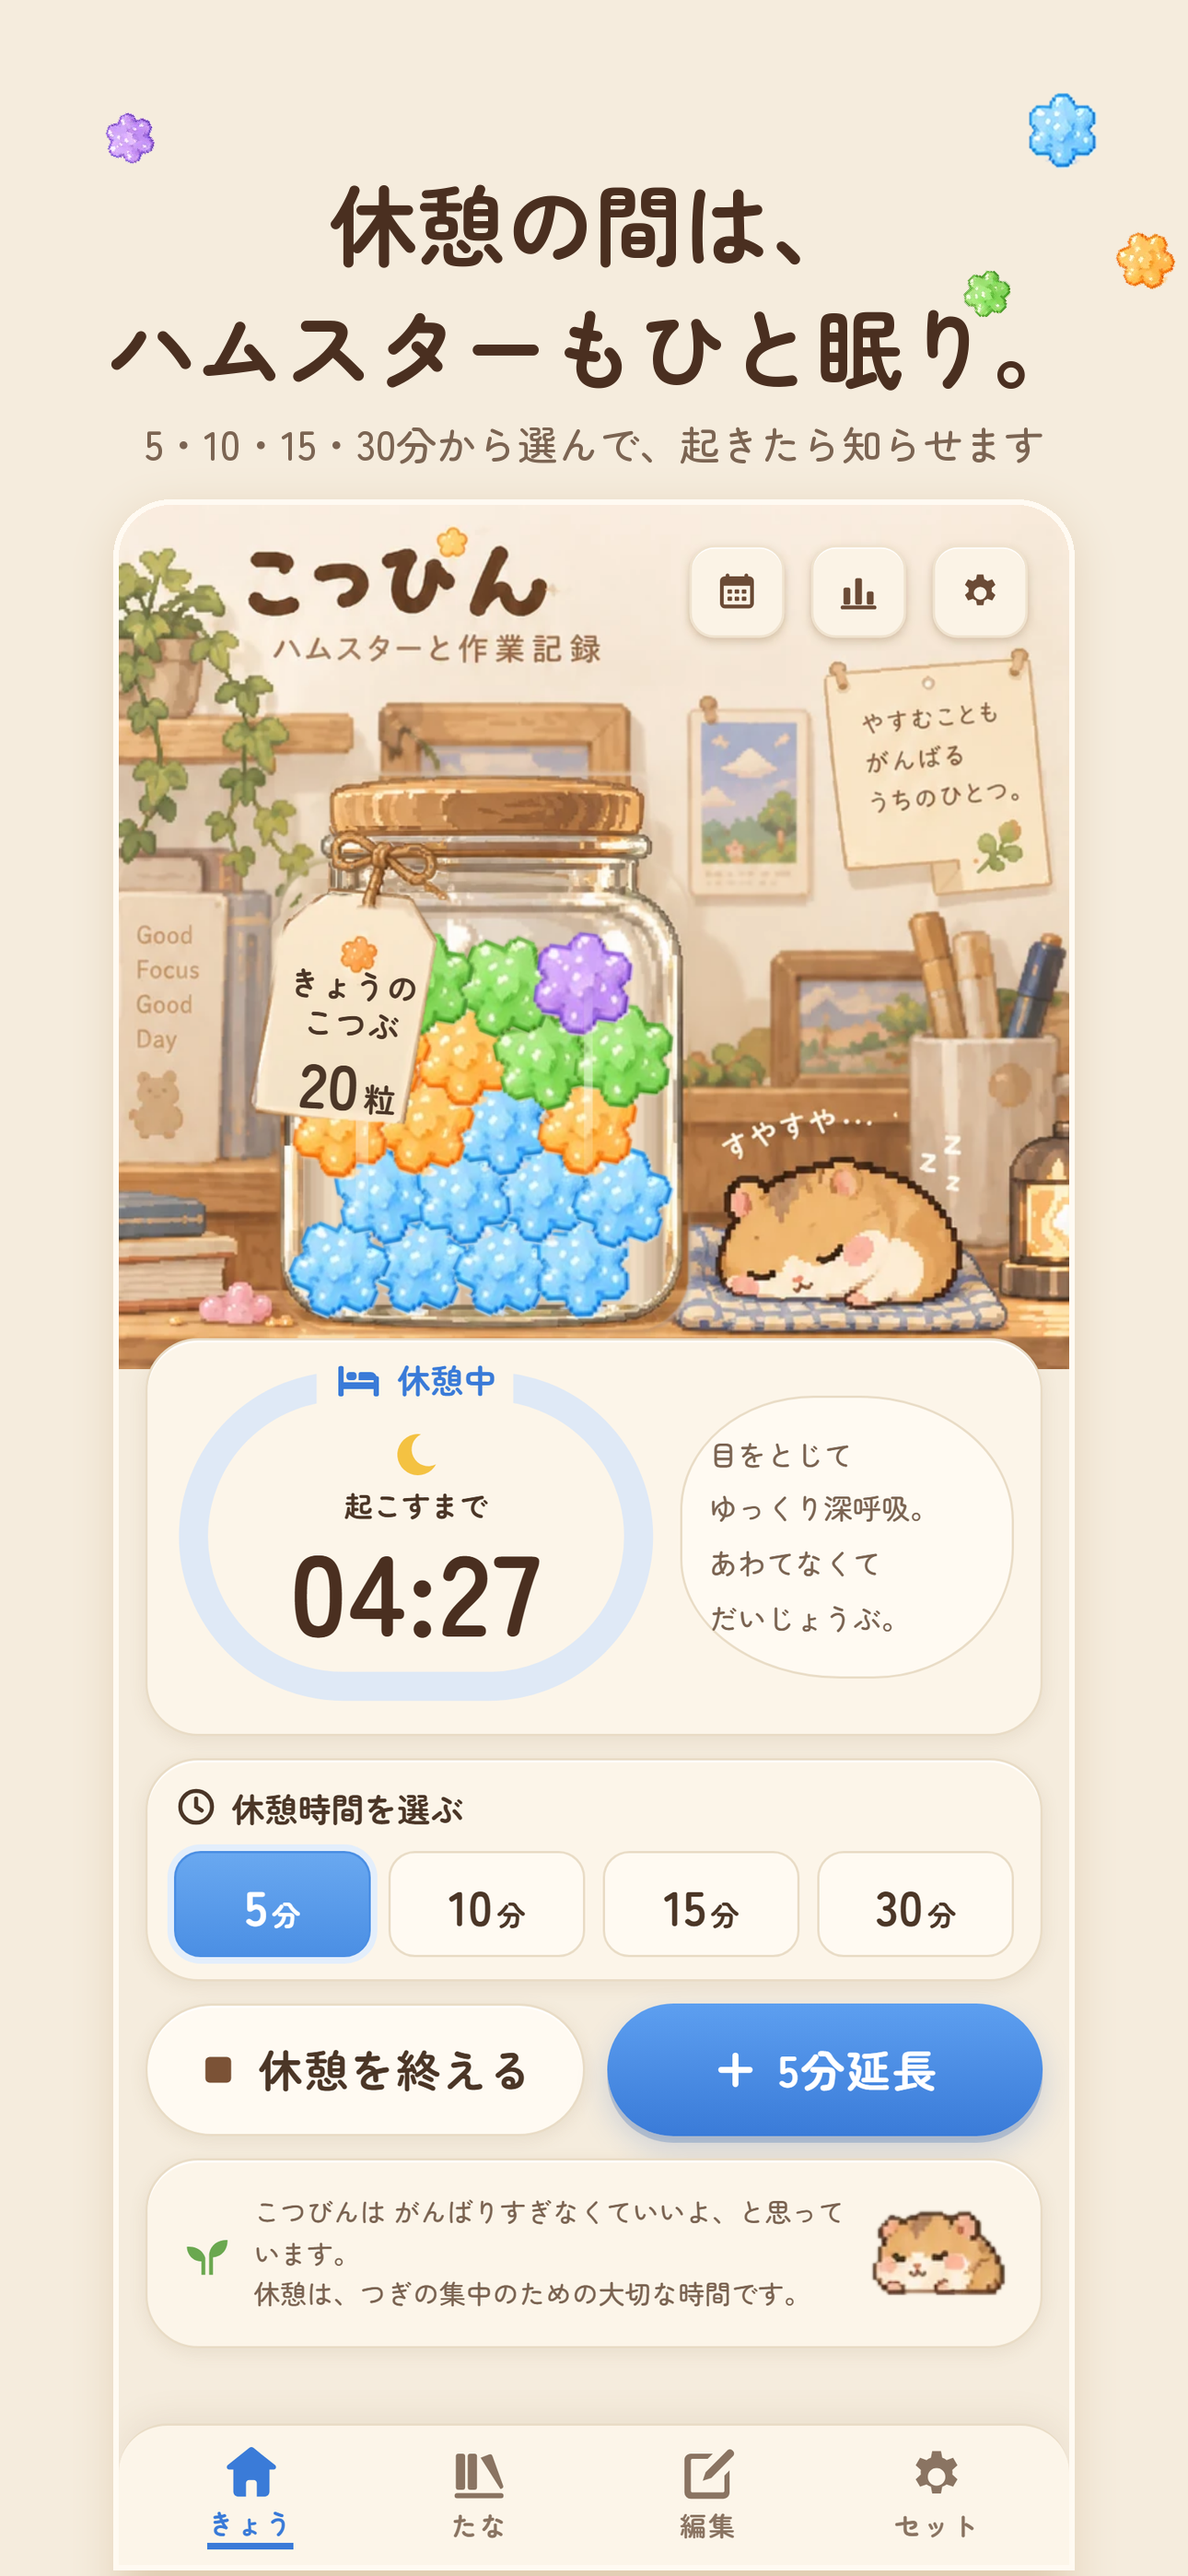
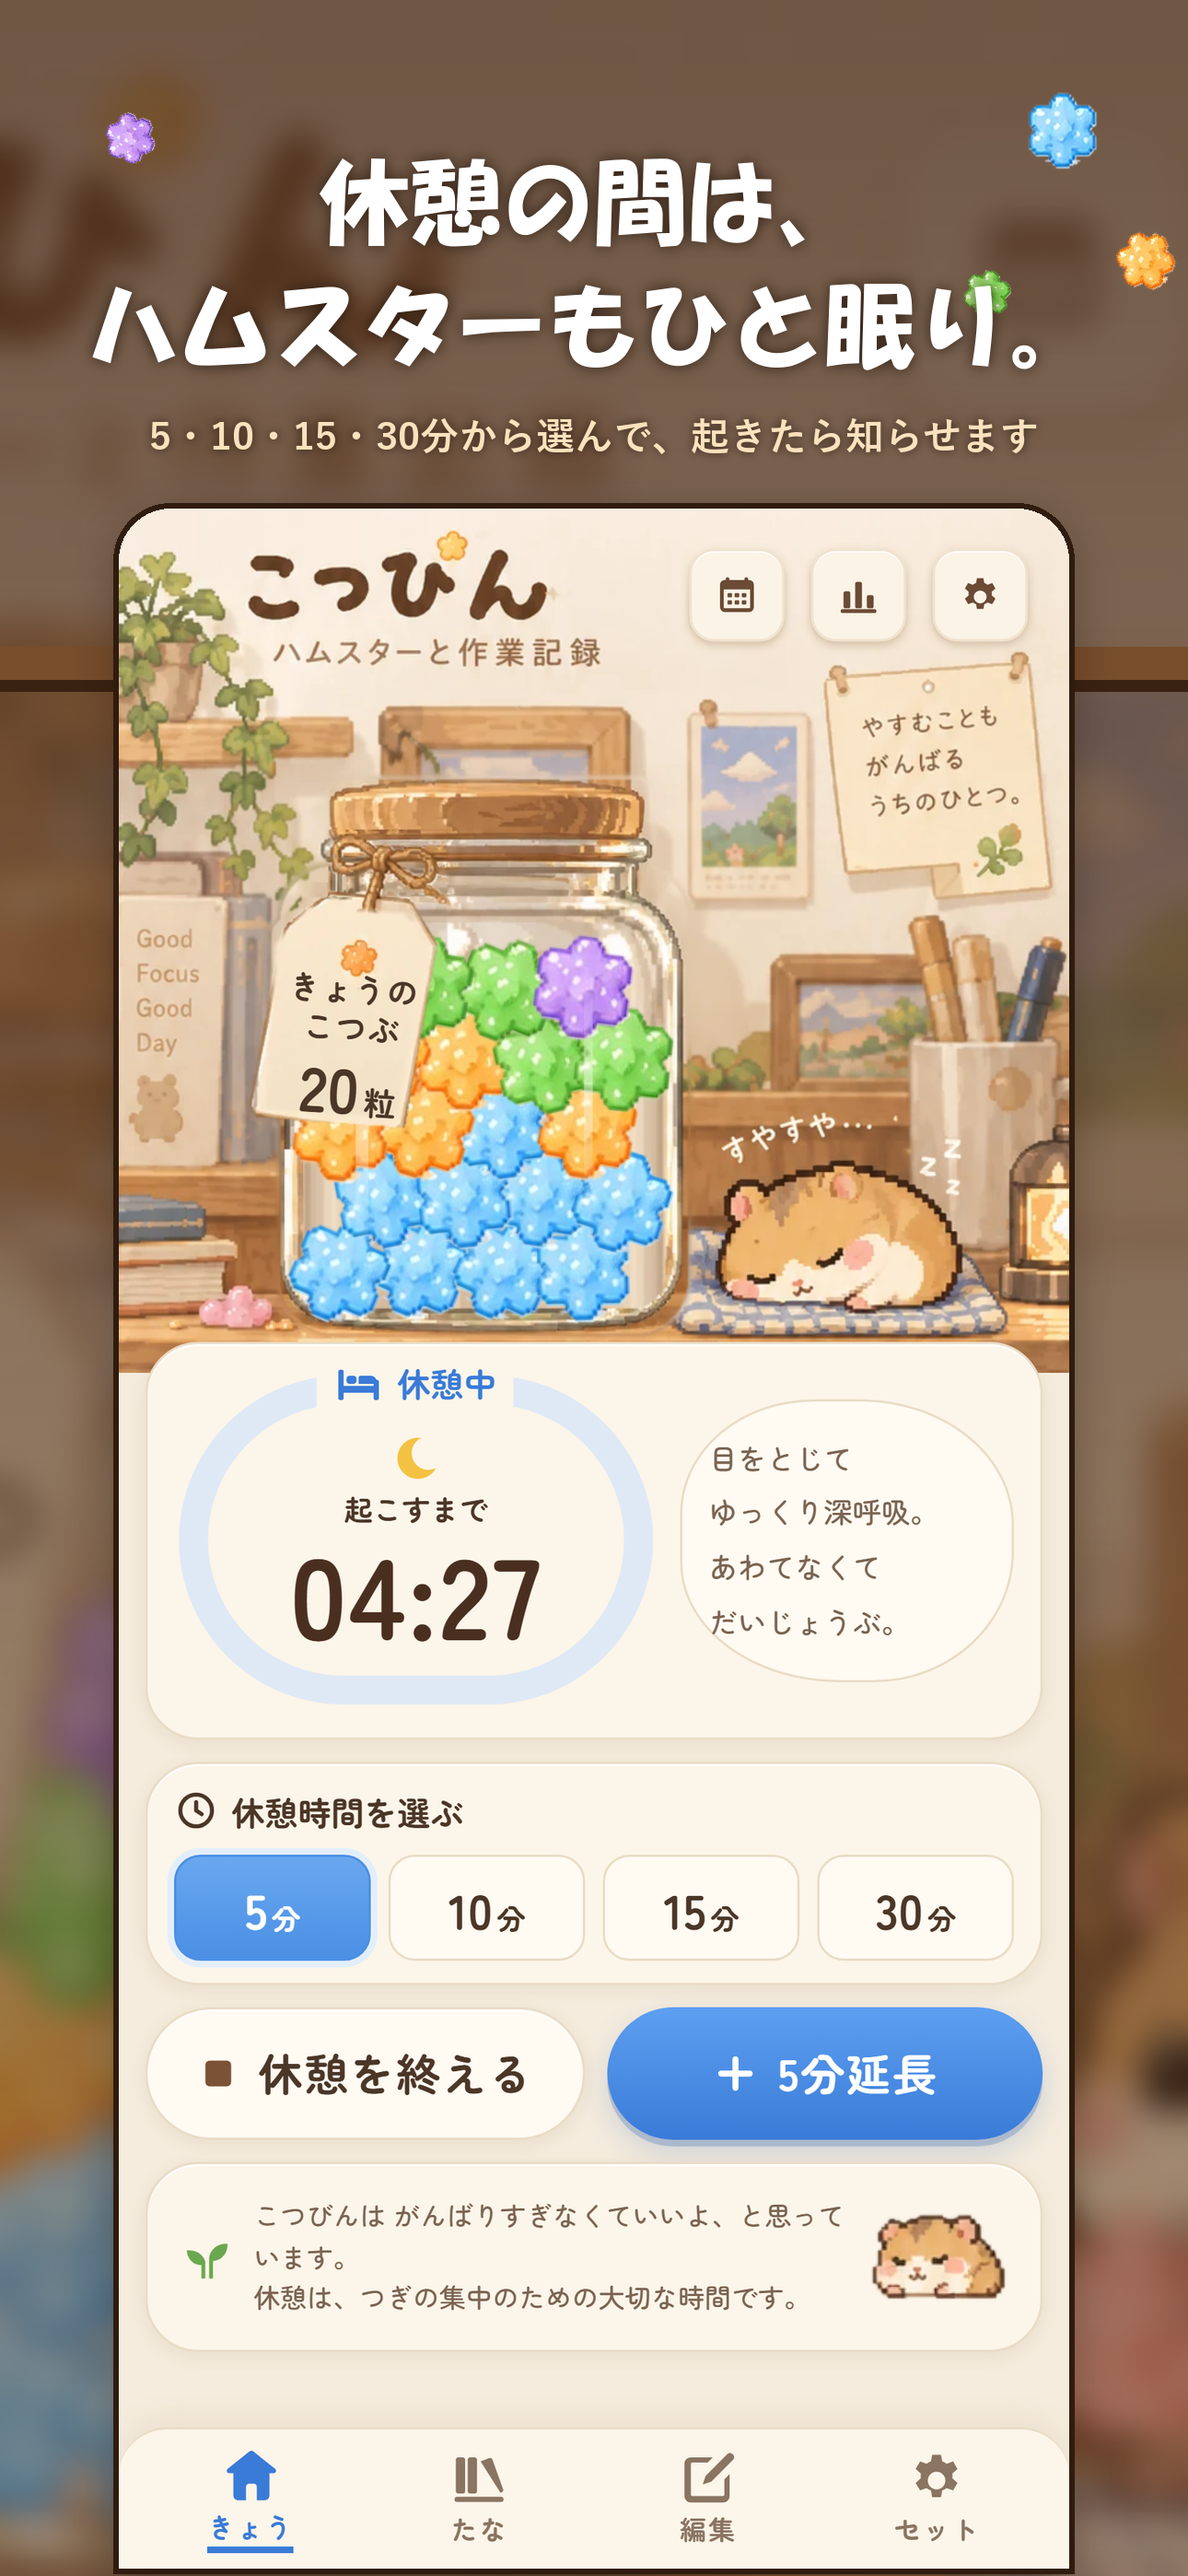
ストア画像の地を生成りから木の棚の部屋の絵(ぼかし+こげ茶)に、見出しをHG創英角ポップ体に
元の画像は store/_cream_backup_2026-10-10/。--compose-only で撮り直さずに組める。

diff --git a/scripts/make_store.py b/scripts/make_store.py
@@ -1,6 +1,9 @@
 """ストアの画面写真とフィーチャー画像を作る(1.1.0 の見た目)。先に npm run build と python scripts/serve.py 5297。
 python scripts/make_store.py → store/ios/*.png(1290x2796)・store/play/*.png(1080x1920)・store/play/feature_1024x500.png
-写真に値段・「無料」は入れない(セットの画面は写さない。写す画面にその字が無いことも確かめる)。"""
+写真に値段・「無料」は入れない(セットの画面は写さない。写す画面にその字が無いことも確かめる)。
+2026-10-10 持ち主「Claude 特有の背景をなくして」: 生成りの無地をやめ、地はアプリの木の棚の部屋の絵(ぼかし+こげ茶)、
+見出しは HG創英角ポップ体(白)にした。撮り直さずに組むだけなら --compose-only(scripts/store_raw の写真を使う)。
+前の生成りの版は store/_cream_backup_2026-10-10/ にある。"""
 import os
 import sys
 import time
@@ -18,9 +21,38 @@ RAW.mkdir(exist_ok=True)
 URL = "http://127.0.0.1:5297/"
 BOLD = str(APP / "scripts/fonts/ZenMaruGothic-Bold.ttf")
 MED = str(APP / "scripts/fonts/ZenMaruGothic-Medium.ttf")
-CREAM = (245, 236, 221)
+POP = "C:/Windows/Fonts/HGRPP1.TTC"     # 見出し(HG創英角ポップ体)
+SUBF = "C:/Windows/Fonts/YuGothB.ttc"   # 添え書き
+WOOD = (74, 45, 26)       # 棚のこげ茶
+WOOD2 = (120, 78, 44)     # 板の明るい茶
 INK = (74, 47, 32)
 SUB = (123, 100, 82)
+TXT = (255, 255, 255)
+TXT2 = (250, 226, 190)
+ROOM = RAW / "feature_scene.png"   # アプリの「きょう」の場面(木の棚の部屋)
+
+
+def room_bg(W, H, top_a=200, bot_a=120, blur=None):
+    """木の棚の部屋の絵を全面に敷き、ぼかしてこげ茶をかける(上ほど濃く)"""
+    src = Image.open(ROOM).convert("RGB")
+    src = src.crop((0, 0, src.width, int(src.height * 0.95)))
+    s = max(W / src.width, H / src.height)
+    src = src.resize((int(src.width * s) + 1, int(src.height * s) + 1), Image.LANCZOS)
+    x, y = (src.width - W) // 2, (src.height - H) // 2
+    im = src.crop((x, y, x + W, y + H)).filter(ImageFilter.GaussianBlur(blur if blur is not None else int(W / 70)))
+    a = Image.new("L", (1, H))
+    for yy in range(H):
+        a.putpixel((0, yy), int(top_a + (bot_a - top_a) * yy / H))
+    im.paste(Image.new("RGB", (W, H), WOOD), (0, 0), a.resize((W, H)))
+    return im
+
+
+def text_shadow(im, xy, s, font, fill, r=6):
+    sh = Image.new("L", im.size, 0)
+    ImageDraw.Draw(sh).text(xy, s, font=font, fill=200)
+    sh = sh.filter(ImageFilter.GaussianBlur(r))
+    im.paste(Image.new("RGB", im.size, (30, 16, 6)), (0, 0), sh)
+    ImageDraw.Draw(im).text(xy, s, font=font, fill=fill)
 
 SHOTS = [
     # (名前, 見出し, 小見出し, 状態)
@@ -72,23 +104,28 @@ def capture(page_w, page_h, dpr, suffix):
 
 def compose(raw: Path, title: str, sub: str, W: int, H: int, dest: Path):
     k = W / 1290
-    im = Image.new("RGB", (W, H), CREAM)
+    im = room_bg(W, H)
     d = ImageDraw.Draw(im)
     # 上の飾り: 見本の粒を小さく散らす
     for i, (c, x, y, s) in enumerate([("sora", 0.86, 0.035, 90), ("mikan", 0.93, 0.085, 70), ("wakaba", 0.80, 0.10, 56), ("fuji", 0.08, 0.04, 60)]):
         g = Image.open(APP / f"public/art/candy_{c}.webp").convert("RGBA").resize((int(s * k), int(s * k)), Image.LANCZOS).rotate(i * 23, expand=True)
         im.paste(g, (int(W * x), int(H * y)), g)
-    ft = ImageFont.truetype(BOLD, int(96 * k))
-    fs = ImageFont.truetype(MED, int(44 * k))
+    ft = ImageFont.truetype(POP, int(100 * k))
+    fs = ImageFont.truetype(SUBF, int(42 * k))
     y = int(170 * k)
     for line in title.split("\n"):
         w = d.textlength(line, font=ft)
-        d.text(((W - w) / 2, y), line, font=ft, fill=INK)
+        text_shadow(im, ((W - w) / 2, y), line, ft, TXT, r=int(8 * k))
         y += int(134 * k)
-    y += int(10 * k)
+    y += int(14 * k)
     w = d.textlength(sub, font=fs)
-    d.text(((W - w) / 2, y), sub, font=fs, fill=SUB)
+    text_shadow(im, ((W - w) / 2, y), sub, fs, TXT2, r=int(5 * k))
     top = y + int(100 * k)
+    d = ImageDraw.Draw(im)
+    # 棚板: 画面の後ろを横切る木の板
+    py = top + int(150 * k)
+    d.rectangle((0, py, W, py + int(36 * k)), fill=WOOD2)
+    d.rectangle((0, py + int(36 * k), W, py + int(48 * k)), fill=(58, 34, 18))
     shot = Image.open(raw).convert("RGB")
     sw = int(W * 0.80)
     sh = int(shot.height * sw / shot.width)
@@ -99,12 +136,12 @@ def compose(raw: Path, title: str, sub: str, W: int, H: int, dest: Path):
     shadow = Image.new("L", (W, H), 0)
     ImageDraw.Draw(shadow).rounded_rectangle((sx, top + int(10 * k), sx + sw, H + r), r, fill=90)
     shadow = shadow.filter(ImageFilter.GaussianBlur(int(24 * k)))
-    im.paste(Image.new("RGB", (W, H), (190, 150, 105)), (0, 0), shadow)
+    im.paste(Image.new("RGB", (W, H), (20, 10, 4)), (0, 0), shadow)
     mask = Image.new("L", (sw, sh), 0)
     ImageDraw.Draw(mask).rounded_rectangle((0, 0, sw - 1, sh + r), radius=r, fill=255)
     border = Image.new("L", (sw + 12, sh + 12), 0)
     ImageDraw.Draw(border).rounded_rectangle((0, 0, sw + 11, sh + 12 + r), radius=r + 6, fill=255)
-    im.paste(Image.new("RGB", (sw + 12, sh + 12), (255, 250, 242)), (sx - 6, top - 6), border)
+    im.paste(Image.new("RGB", (sw + 12, sh + 12), (48, 28, 14)), (sx - 6, top - 6), border)
     im.paste(shot, (sx, top), mask)
     im.save(dest)
 
@@ -125,43 +162,51 @@ def scene_png():
     return path
 
 
-def feature():
+def feature(compose_only=False):
     W, H = 1024, 500
-    plate = Image.open(scene_png()).convert("RGB").resize((758, 690), Image.LANCZOS)
-    im = Image.new("RGB", (W, H), CREAM)
+    plate = Image.open(ROOM if compose_only else scene_png()).convert("RGB").resize((758, 690), Image.LANCZOS)
+    im = room_bg(W, H, top_a=150, bot_a=150, blur=10)
     # 右に見本の場面(ボタンと題字の上側は切る)
     sc = plate.crop((100, 150, 745, 640))
     sc = sc.resize((int(sc.width * H / sc.height), H), Image.LANCZOS)
     im.paste(sc, (W - sc.width, 0))
-    # 左を生成りで溶かす
+    # 左はこげ茶に溶かす(下にぼかした部屋が透ける)
+    left = room_bg(W, H, top_a=215, bot_a=215, blur=12)
     fade = Image.new("L", (W, H), 0)
     fd = ImageDraw.Draw(fade)
     for x in range(W):
-        v = 255 if x < 400 else max(0, 255 - int((x - 400) * 255 / 90))
+        v = 255 if x < 410 else max(0, 255 - int((x - 410) * 255 / 110))
         fd.line((x, 0, x, H), fill=v)
-    im.paste(Image.new("RGB", (W, H), CREAM), (0, 0), fade)
+    im.paste(left, (0, 0), fade)
     ic = Image.open(APP / "store/icon_1024.png").convert("RGB").resize((96, 96), Image.LANCZOS)
     m = Image.new("L", (96, 96), 0)
     ImageDraw.Draw(m).rounded_rectangle((0, 0, 95, 95), 22, fill=255)
     im.paste(ic, (60, 70), m)
     d = ImageDraw.Draw(im)
-    d.text((172, 92), "こつびん", font=ImageFont.truetype(BOLD, 46), fill=INK)
-    ft = ImageFont.truetype(BOLD, 40)
-    d.text((60, 210), "がんばった時間が、", font=ft, fill=INK)
-    d.text((60, 266), "こんぺいとうになる。", font=ft, fill=INK)
-    d.text((62, 372), "ハムスターと作業・勉強の記録", font=ImageFont.truetype(MED, 26), fill=SUB)
+    text_shadow(im, (172, 90), "こつびん", ImageFont.truetype(POP, 52), TXT, r=4)
+    ft = ImageFont.truetype(POP, 44)
+    text_shadow(im, (60, 210), "がんばった時間が、", ft, TXT, r=5)
+    text_shadow(im, (60, 268), "こんぺいとうになる。", ft, TXT, r=5)
+    d = ImageDraw.Draw(im)
+    d.rectangle((60, 352, 380, 360), fill=WOOD2)
+    text_shadow(im, (62, 378), "ハムスターと作業・勉強の記録", ImageFont.truetype(SUBF, 26), TXT2, r=3)
     im.save(APP / "store/play/feature_1024x500.png")
 
 
 if __name__ == "__main__":
     (APP / "store/ios").mkdir(parents=True, exist_ok=True)
     (APP / "store/play").mkdir(parents=True, exist_ok=True)
+    only = "--compose-only" in sys.argv
     for old in list((APP / "store/ios").glob("*.png")) + [p for p in (APP / "store/play").glob("[0-9]_*.png")]:
         old.unlink()
-    ios = capture(430, 932, 3, "ios")
-    play = capture(360, 640, 3, "play")
+    if only:
+        ios = {n: RAW / f"{n}_ios.png" for n, *_ in SHOTS}
+        play = {n: RAW / f"{n}_play.png" for n, *_ in SHOTS}
+    else:
+        ios = capture(430, 932, 3, "ios")
+        play = capture(360, 640, 3, "play")
     for name, title, sub, _ in SHOTS:
         compose(ios[name], title, sub, 1290, 2796, APP / f"store/ios/{name}.png")
         compose(play[name], title, sub, 1080, 1920, APP / f"store/play/{name}.png")
-    feature()
+    feature(only)
     print("ok")

diff --git a/store/_cream_backup_2026-10-10/play/data_safety_and_rating.md b/store/_cream_backup_2026-10-10/play/data_safety_and_rating.md
@@ -1,0 +1,36 @@
+# Play Console の回答案
+
+## データ セーフティ
+- アプリはユーザーデータを収集または共有しますか: はい(購入の確認のみ。下記)
+- 収集するデータ:
+  - アプリのアクティビティ → 「アプリ内の操作」なし
+  - 金融情報 → 購入履歴: 収集する(RevenueCat に送る。目的: アプリの機能〔購入の確認・復元〕。任意ではない〔購入する人のみ〕。共有なし)
+  - 端末またはその他の ID: 収集する(RevenueCat の匿名 ID。目的: アプリの機能。共有なし)
+  - それ以外(位置・個人情報・連絡先・写真・健康・メッセージ・ウェブ閲覧・カレンダー): 収集しない
+- 作業の記録は端末の外に出ないので「収集」に当たらない(Google の定義: 端末の外に送る物が収集)
+- データは転送時に暗号化されますか: はい(RevenueCat との通信は HTTPS)
+- データの削除をリクエストできますか: アプリを削除すると端末の記録は消える。RevenueCat の匿名 ID の削除はお問い合わせで対応(kame6493@gmail.com)
+- 独立したセキュリティ審査: なし
+
+## コンテンツのレーティング(IARC 質問票)
+- カテゴリ: ユーティリティ、生産性、コミュニケーション、その他(ゲームではない)
+- 暴力・性的表現・言葉づかい・薬物・ギャンブル: すべて「いいえ」
+- ユーザー同士のやりとり・共有: いいえ(画像の共有は OS の共有シートを使うだけで、アプリ内のやりとりは無い)
+- 位置情報の共有: いいえ
+- デジタル商品の購入: はい(なかまセット)
+- 見込み: IARC 3+ / 全年齢
+
+## アプリのカテゴリ
+- Play: 仕事効率化
+- App Store: 仕事効率化(サブ: ライフスタイル)
+
+## ターゲット年齢
+13歳以上を選ぶ(子ども向けに作った物ではないため。13歳未満を含めると「ファミリー」方針の追加審査になる)
+
+## 広告
+広告を含まない
+
+## 権限の説明(Play の申告で聞かれたとき)
+- 通知(POST_NOTIFICATIONS): ひとやすみの終わりと作業の区切りを知らせるため
+- 正確なアラーム(SCHEDULE_EXACT_ALARM): 通知プラグインが宣言。ひとやすみの終わりを決めた時刻に知らせるため。許可されていなくても動く(時刻が少しずれるだけ)
+- 課金(BILLING): なかまセットの購入
